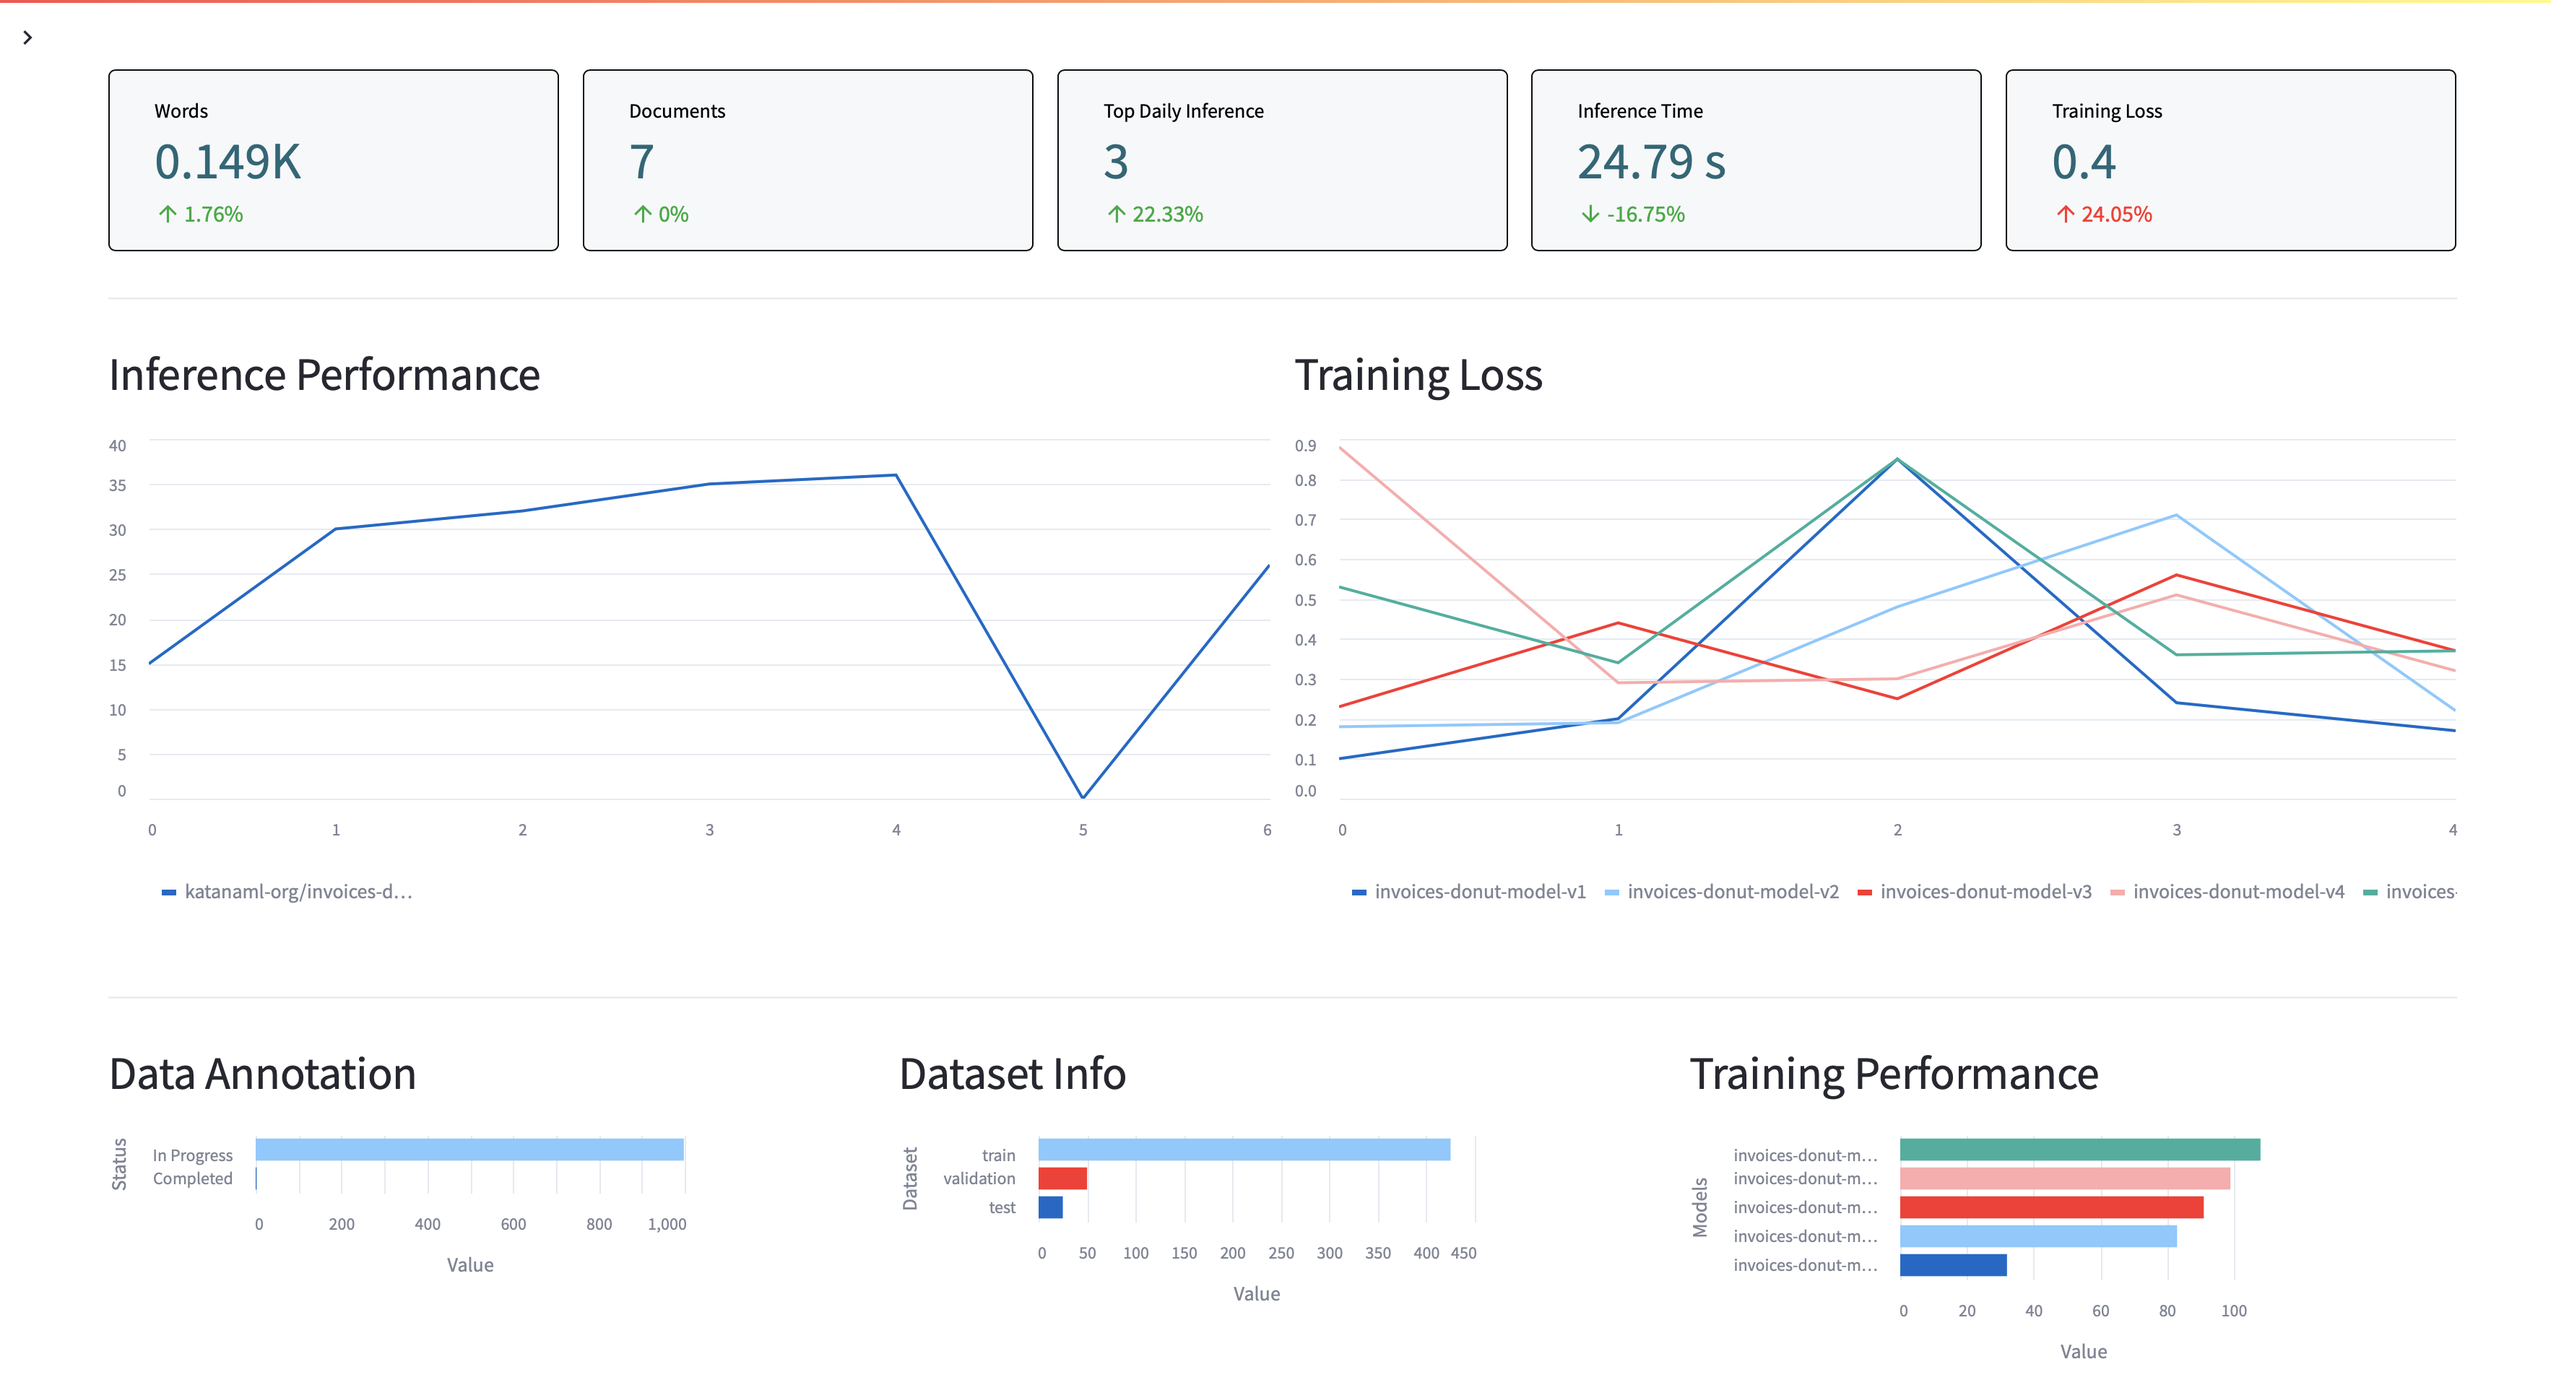
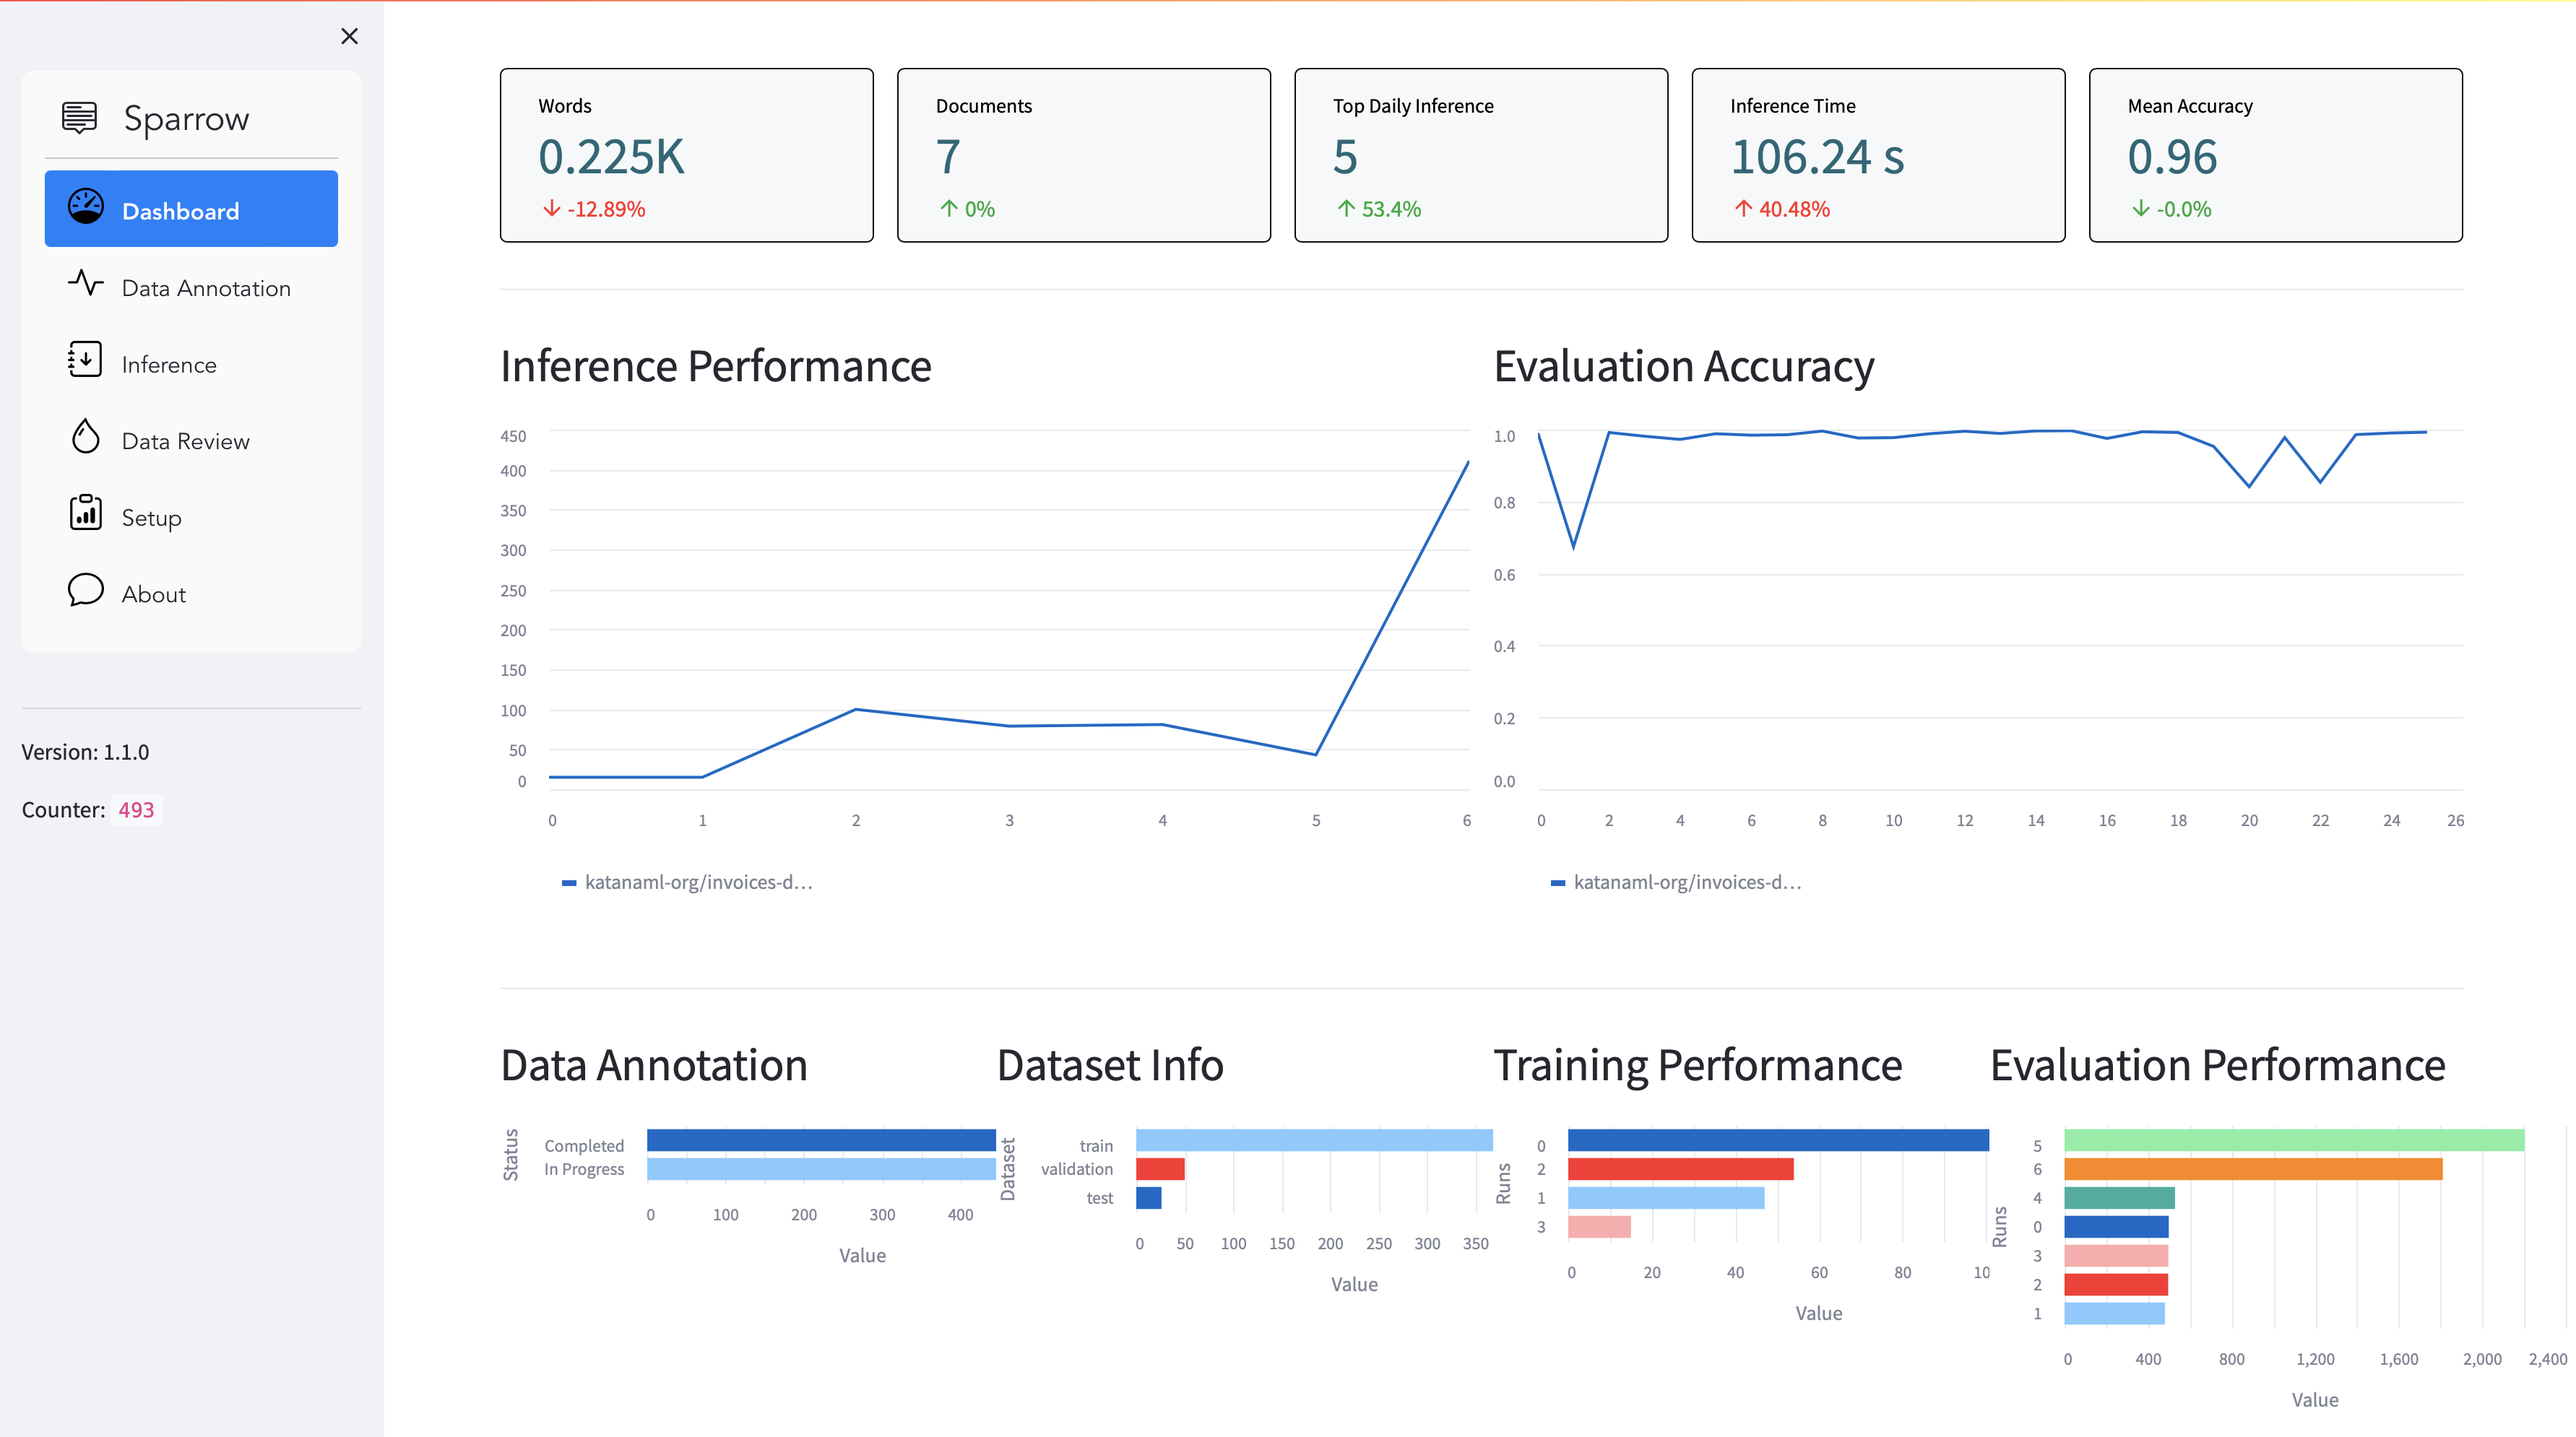
Dashboard update

diff --git a/sparrow-ui/tools/style.css b/sparrow-ui/tools/style.css
@@ -1,10 +1,10 @@
 /* Move block container higher */
-div.block-container.css-k1ih3n.egzxvld4 {
+div.block-container.css-z5fcl4.egzxvld4 {
     margin-top: -5em;
 }
 
 /* Move menu container higher */
-div.css-1vq4p4l.e1fqkh3o4 {
+div.css-1544g2n.e1fqkh3o4 {
     padding-top: 3rem;
 }
 

diff --git a/sparrow-ui/views/dashboard.py b/sparrow-ui/views/dashboard.py
@@ -19,13 +19,14 @@ class Dashboard:
 
         dailyInferenceTitle = "Top Daily Inference"
 
-        trainingLossTitle = "Training Loss"
+        accuracyTitle = "Mean Accuracy"
 
-        titleTrainingLoss = "## Training Loss"
+        titleModelEval = "## Evaluation Accuracy"
         titleInferencePerformance = "## Inference Performance"
         titleDatasetInfo = "## Dataset Info"
         titleDataAnnotation = "## Data Annotation"
         titleTrainingPerformance = "## Training Performance"
+        titleEvaluationPerformance = "## Evaluation Performance"
 
         status_file = "docs/status.json"
         annotation_files_dir = "docs/json"
@@ -41,13 +42,21 @@ class Dashboard:
         else:
             print(f"Error: Unable to fetch data from the API (status code {response.status_code})")
 
-        api_url_t = "https://katanaml-org-sparrow-ml.hf.space/api-training/v1/sparrow-ml/statistics"
+        api_url_t = "https://katanaml-org-sparrow-ml.hf.space/api-training/v1/sparrow-ml/statistics/training"
         json_data_training = []
         response_t = requests.get(api_url_t)
         if response_t.status_code == 200:
             json_data_training = response_t.json()
         else:
             print(f"Error: Unable to fetch data from the API (status code {response_t.status_code})")
+
+        api_url_e = "https://katanaml-org-sparrow-ml.hf.space/api-training/v1/sparrow-ml/statistics/evaluate"
+        json_data_evaluate = []
+        response_e = requests.get(api_url_e)
+        if response_e.status_code == 200:
+            json_data_evaluate = response_e.json()
+        else:
+            print(f"Error: Unable to fetch data from the API (status code {response_e.status_code})")
 
         with st.container():
             col1, col2, col3, col4, col5 = st.columns(5)
@@ -172,26 +181,33 @@ class Dashboard:
                           delta_color="inverse")
 
             with col5:
-                training_loss_avg = 0
+                models_unique = []
+                models_dict = {}
+                for i in range(0, len(json_data_evaluate)):
+                    if json_data_evaluate[i][3] not in models_unique:
+                        models_unique.append(json_data_evaluate[i][3])
+                        models_dict[json_data_evaluate[i][3]] = json_data_evaluate[i][1]['mean_accuracy']
 
-                # calculate training loss average
-                for i in range(0, len(json_data_training)):
-                    training_loss_avg = training_loss_avg + json_data_training[i][1]
-                training_loss_avg = round(training_loss_avg / len(json_data_training), 2)
+                avg_accuracy = 0
+                for key, value in models_dict.items():
+                    avg_accuracy = avg_accuracy + value
+                avg_accuracy = round(avg_accuracy / len(models_dict), 2)
 
-                delta_loss = 0
-                if len(json_data_training) > 5:
-                    # calculate training loss average for last 3 values
-                    training_loss_avg_last = (json_data_training[len(json_data_training) - 1][1] +
-                                                json_data_training[len(json_data_training) - 2][1] +
-                                                json_data_training[len(json_data_training) - 3][1]) / 3
+                if len(models_unique) > 3:
+                    # calculate average accuracy for last 3 values
+                    avg_accuracy_last = 0
+                    for i in range(1, 4):
+                        avg_accuracy_last = avg_accuracy_last + models_dict[models_unique[len(models_unique) - i]]
+                    avg_accuracy_last = round(avg_accuracy_last / 3, 2)
+                else:
+                    avg_accuracy_last = avg_accuracy
 
-                    if training_loss_avg_last > training_loss_avg:
-                        delta_loss = round(100 - ((training_loss_avg * 100) / training_loss_avg_last), 2)
-                    else:
-                        delta_loss = round(100 - ((training_loss_avg_last * 100) / training_loss_avg), 2) * -1
+                if avg_accuracy_last > avg_accuracy:
+                    delta_accuracy = round(100 - ((avg_accuracy * 100) / avg_accuracy_last), 2)
+                else:
+                    delta_accuracy = round(100 - ((avg_accuracy_last * 100) / avg_accuracy), 2) * -1
 
-                st.metric(label=model.trainingLossTitle, value=training_loss_avg, delta=str(delta_loss) + "%",
+                st.metric(label=model.accuracyTitle, value=avg_accuracy, delta=str(delta_accuracy) + "%",
                           delta_color="inverse")
 
             st.markdown("---")
@@ -224,24 +240,14 @@ class Dashboard:
                 st.line_chart(data)
 
             with col2:
-                st.write(model.titleTrainingLoss)
-
-                models_dict = {}
-
-                models = []
-                for i in range(0, len(json_data_training)):
-                    models.append(json_data_training[i][3])
+                st.write(model.titleModelEval)
 
                 models_unique = []
-                for item in models:
-                    if item not in models_unique:
-                        models_unique.append(item)
-
-                for i, key in enumerate(models_unique):
-                    models_dict[key] = []
-
-                for i in range(0, len(json_data_training)):
-                    models_dict[json_data_training[i][3]].append(json_data_training[i][1])
+                models_dict = {}
+                for i in range(0, len(json_data_evaluate)):
+                    if json_data_evaluate[i][3] not in models_unique:
+                        models_unique.append(json_data_evaluate[i][3])
+                        models_dict[json_data_evaluate[i][3]] = json_data_evaluate[i][1]['accuracies']
 
                 data = pd.DataFrame(models_dict)
                 st.line_chart(data)
@@ -249,7 +255,7 @@ class Dashboard:
         st.markdown("---")
 
         with st.container():
-            col1, col2, col3 = st.columns(3)
+            col1, col2, col3, col4 = st.columns(4)
 
             with col1:
                 with st.container():
@@ -305,31 +311,36 @@ class Dashboard:
 
                     models_dict = {}
 
-                    models = []
                     for i in range(0, len(json_data_training)):
-                        models.append(json_data_training[i][3])
+                        models_dict[i] = round(json_data_training[i][0])
 
-                    models_unique = []
-                    for item in models:
-                        if item not in models_unique:
-                            models_unique.append(item)
-
-                    for i, key in enumerate(models_unique):
-                        models_dict[key] = []
-
-                    for i in range(0, len(json_data_training)):
-                        models_dict[json_data_training[i][3]].append(json_data_training[i][2])
-
-                    for key in models_dict:
-                        models_dict[key] = round((sum(models_dict[key]) / len(models_dict[key])) / 60)
-
-                    data = pd.DataFrame({"Models": models_dict.keys(), "Value": list(models_dict.values())})
+                    data = pd.DataFrame({"Runs": models_dict.keys(), "Value": list(models_dict.values())})
 
                     # Create a horizontal bar chart
                     chart = alt.Chart(data).mark_bar().encode(
                         x='Value:Q',
-                        y=alt.Y('Models:N', sort='-x'),
-                        color=alt.Color('Models:N', legend=None)
+                        y=alt.Y('Runs:N', sort='-x'),
+                        color=alt.Color('Runs:N', legend=None)
+                    )
+
+                    st.altair_chart(chart)
+
+            with col4:
+                with st.container():
+                    st.write(model.titleEvaluationPerformance)
+
+                    runs_dict = {}
+
+                    for i in range(0, len(json_data_evaluate)):
+                        runs_dict[i] = round(json_data_evaluate[i][0])
+
+                    data = pd.DataFrame({"Runs": runs_dict.keys(), "Value": list(runs_dict.values())})
+
+                    # Create a horizontal bar chart
+                    chart = alt.Chart(data).mark_bar().encode(
+                        x='Value:Q',
+                        y=alt.Y('Runs:N', sort='-x'),
+                        color=alt.Color('Runs:N', legend=None)
                     )
 
                     st.altair_chart(chart)
